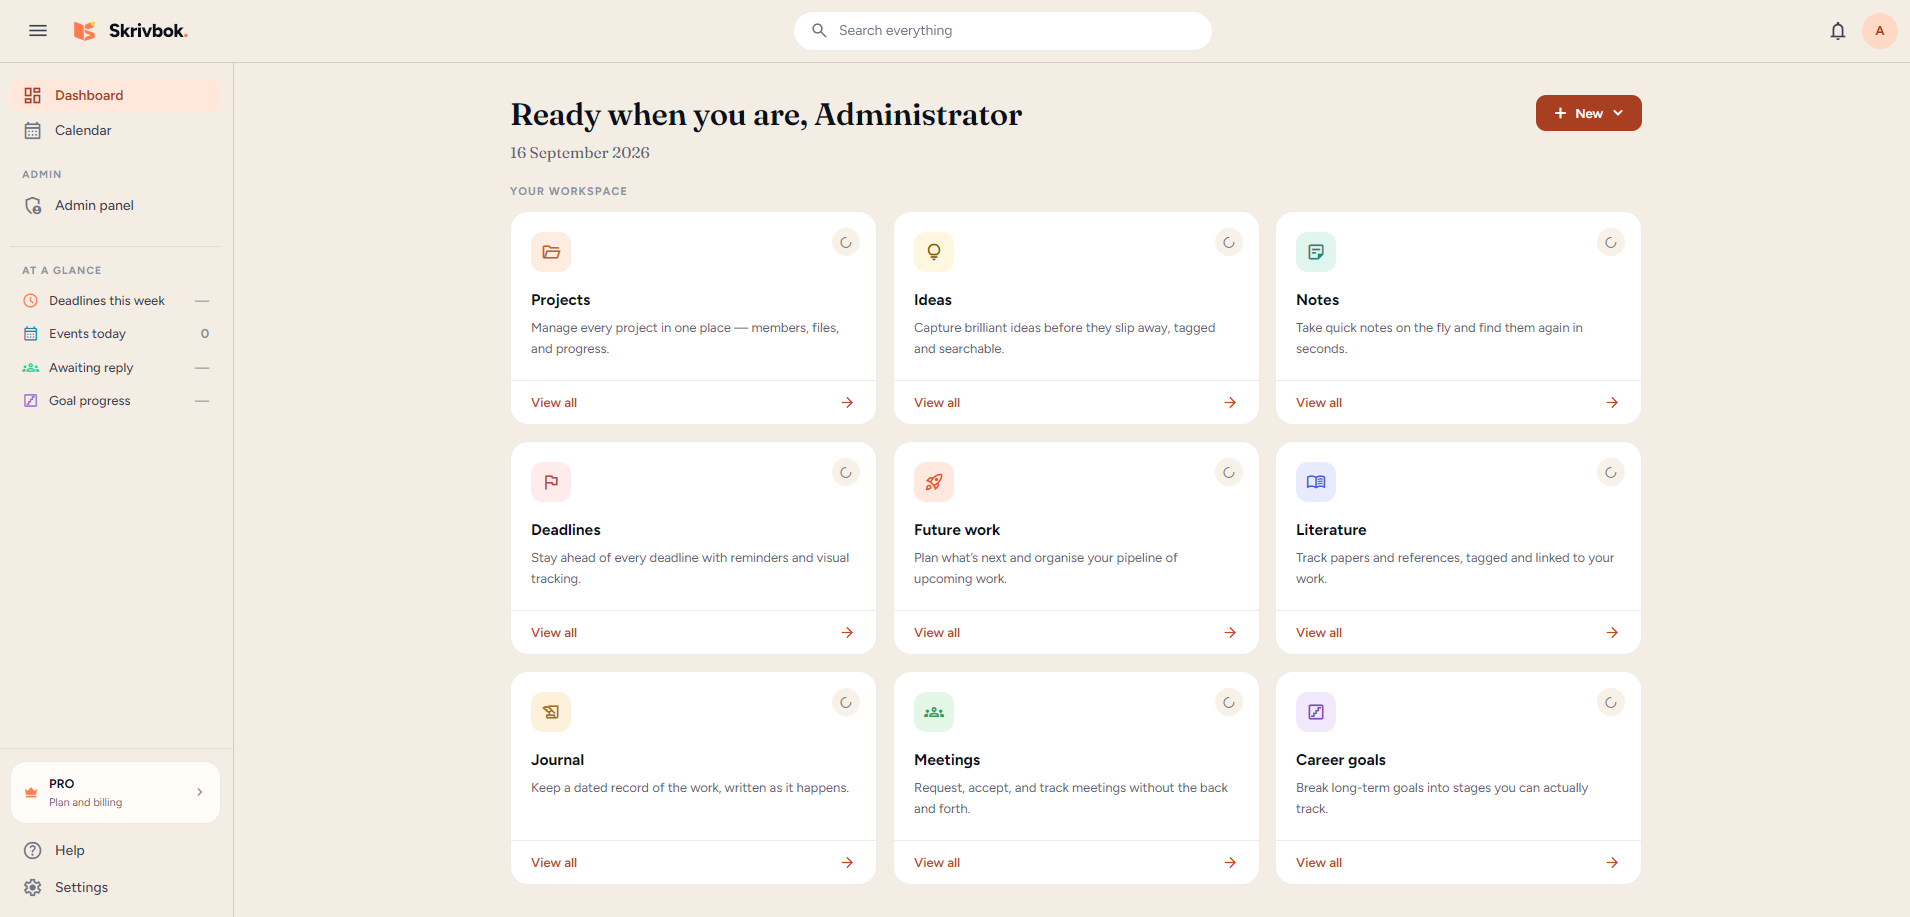
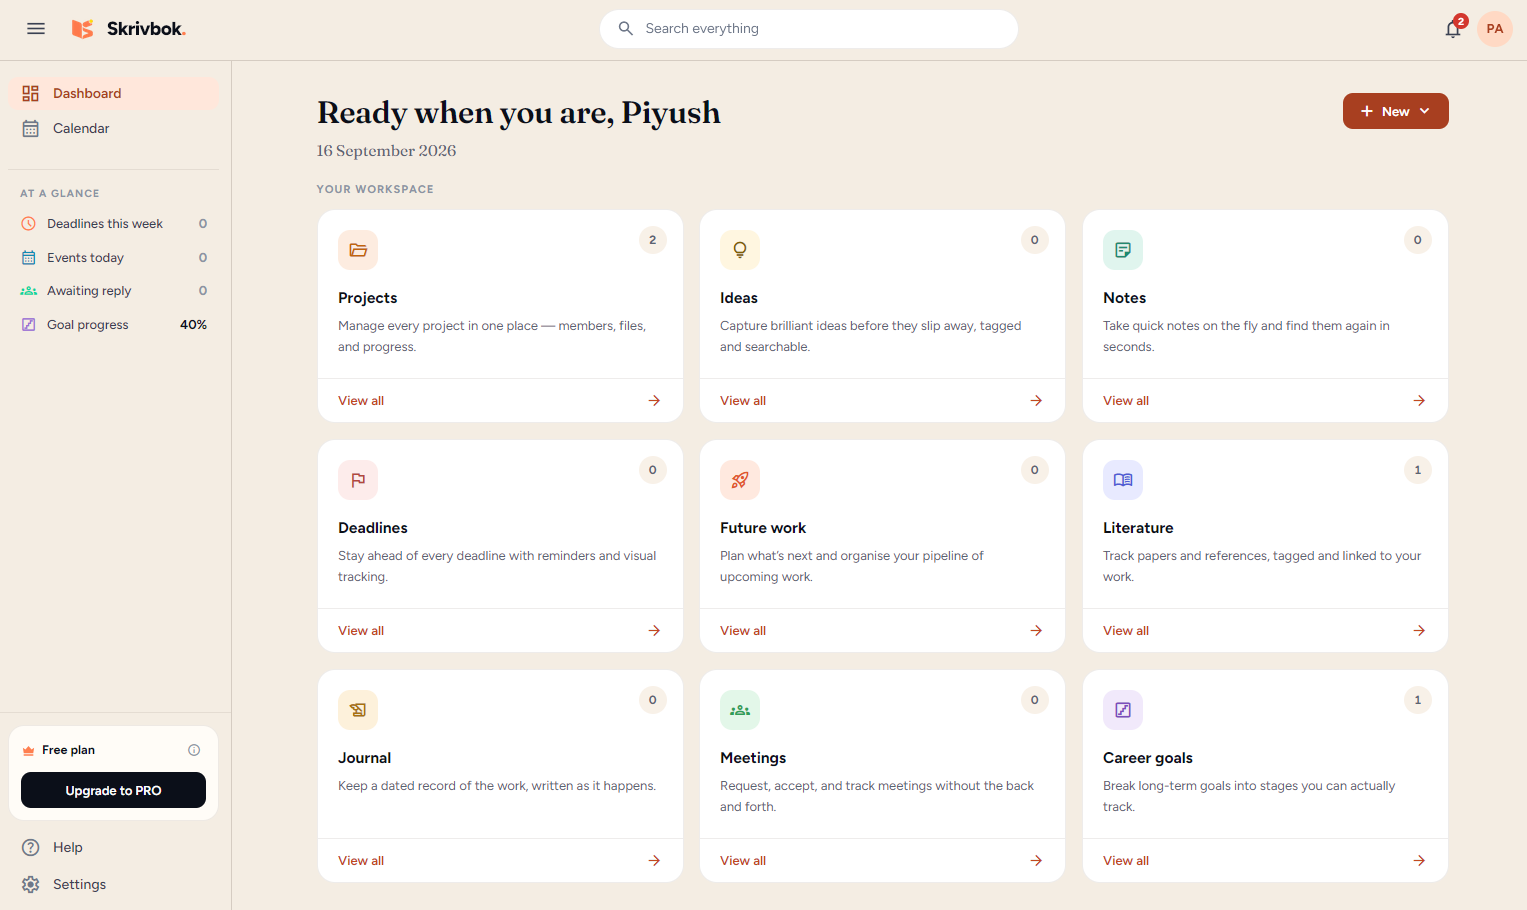
Use the new dashboard screenshot, taken from an ordinary account
The first screenshot was of an admin's dashboard: it greeted "Administrator"
and showed the Admin panel in the sidebar, which is not what a visitor to the
landing page would ever see. The replacement is an ordinary account on the
Free plan, with the real counts and goal progress.

It is 1527x910 rather than 1910x917, so the declared width and height follow
it — otherwise the browser reserves the wrong space while it loads — and the
alt text matches what the picture now shows. The design/ copy is the same file
as the one served.

Claude-Session: https://claude.ai/code/session_018YyqEmCaahthqurRS3yjq6

diff --git a/apps/web/src/pages/Landing.tsx b/apps/web/src/pages/Landing.tsx
@@ -328,17 +328,17 @@ function Hero() {
       </div>
 
       <div className="animate-fade-up mt-14" style={{ animationDelay: '260ms' }}>
-        {/* The real dashboard, at the image's own 1910×917 proportions rather
+        {/* The real dashboard, at the image's own 1527×910 proportions rather
             than a rounded 16/9, so nothing is letterboxed or cropped. Width and
             height are given so the page does not jump as it loads, and it is
             fetched eagerly: it is the first thing below the fold-line copy. */}
         <img
           src="/assets/dashboard.png"
-          width={1910}
-          height={917}
+          width={1527}
+          height={910}
           loading="eager"
           fetchPriority="high"
-          alt="The Skrivbok dashboard: a sidebar of sections with this week's deadlines and events, beside cards for projects, ideas, notes, deadlines, future work, literature, journal, meetings and career goals."
+          alt="The Skrivbok dashboard: a sidebar listing the sections with this week's deadlines, today's events and goal progress, beside cards for projects, ideas, notes, deadlines, future work, literature, journal, meetings and career goals."
           className="mx-auto w-full max-w-[980px] rounded-[20px] border border-line shadow-[0_20px_60px_-20px_rgb(0_0_0/0.25)]"
         />
       </div>
